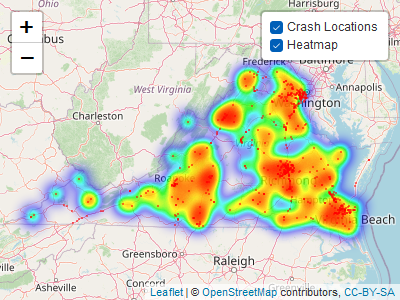
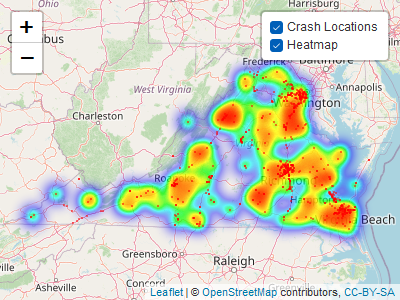
Fixed issue with names(.data)

Changed region(s): [[0.39, 0.21, 0.93, 0.81], [0.27, 0.57, 0.39, 0.72], [0.15, 0.54, 0.24, 0.66]]

diff --git a/README.md b/README.md
@@ -55,7 +55,7 @@ library(dplyr)
 
 # get_fars(years = 2016:2020, states="Virginia")
 
-myFARS <- use_fars()
+myFARS <- use_fars() 
 
 #head(myFARS)
 ```
@@ -208,23 +208,23 @@ models. Here we fit a simple model of injury severity:
 table(myFARS$flat$inj_sev)
 #> 
 #>         Died Prior to Crash*             Fatal Injury (K) 
-#>                            1                         4100 
+#>                            1                         4950 
 #>       No Apparent Injury (O)          Possible Injury (C) 
-#>                         1657                          373 
+#>                         1969                          458 
 #>   Suspected Minor Injury (B)    Suspected Minor Injury(B) 
-#>                          933                          183 
+#>                         1153                          183 
 #> Suspected Serious Injury (A)  Suspected Serious Injury(A) 
-#>                         1014                          227 
+#>                         1262                          227 
 #>         Unknown/Not Reported 
-#>                           96
+#>                          119
 table(myFARS$flat$rest_mis)
 #> 
 #>                           No     No Indication of Mis-Use 
-#>                         4667                         1769 
+#>                         4667                         2654 
 #>     None Used/Not Applicable Not a Motor Vehicle Occupant 
-#>                         1436                          702 
+#>                         2154                          831 
 #>   Yes, Indication of Mis-Use 
-#>                           10
+#>                           16
 
 myFARS$flat %>%
   mutate(kabco = case_when(inj_sev == "Fatal Injury (K)" ~ 4,
@@ -245,21 +245,21 @@ myFARS$flat %>%
 #> 
 #> Residuals:
 #>     Min      1Q  Median      3Q     Max 
-#> -3.7767 -0.6870  0.3193  1.2169  2.1080 
+#> -3.7896 -0.6757  0.3125  1.1824  2.0983 
 #> 
 #> Coefficients:
 #>                                        Estimate Std. Error t value Pr(>|t|)    
-#> (Intercept)                           2.4440395  0.0380498  64.233  < 2e-16 ***
-#> age_n                                 0.0056513  0.0007664   7.373 1.83e-13 ***
-#> rest_misNo Indication of Mis-Use     -0.5576416  0.0392407 -14.211  < 2e-16 ***
-#> rest_misNone Used/Not Applicable      0.8692978  0.0443118  19.618  < 2e-16 ***
-#> rest_misNot a Motor Vehicle Occupant  1.1800812  0.0568344  20.763  < 2e-16 ***
-#> rest_misYes, Indication of Mis-Use   -0.2095945  0.4391045  -0.477    0.633    
+#> (Intercept)                           2.4431478  0.0353397  69.133  < 2e-16 ***
+#> age_n                                 0.0056728  0.0006919   8.199 2.72e-16 ***
+#> rest_misNo Indication of Mis-Use     -0.5471232  0.0337612 -16.206  < 2e-16 ***
+#> rest_misNone Used/Not Applicable      0.8812804  0.0376549  23.404  < 2e-16 ***
+#> rest_misNot a Motor Vehicle Occupant  1.1872643  0.0521402  22.771  < 2e-16 ***
+#> rest_misYes, Indication of Mis-Use   -0.1824123  0.3427040  -0.532    0.595    
 #> ---
 #> Signif. codes:  0 '***' 0.001 '**' 0.01 '*' 0.05 '.' 0.1 ' ' 1
 #> 
-#> Residual standard error: 1.385 on 8061 degrees of freedom
-#>   (517 observations deleted due to missingness)
-#> Multiple R-squared:  0.1377, Adjusted R-squared:  0.1372 
-#> F-statistic: 257.5 on 5 and 8061 DF,  p-value: < 2.2e-16
+#> Residual standard error: 1.365 on 9696 degrees of freedom
+#>   (620 observations deleted due to missingness)
+#> Multiple R-squared:  0.158,  Adjusted R-squared:  0.1575 
+#> F-statistic: 363.8 on 5 and 9696 DF,  p-value: < 2.2e-16
 ```
